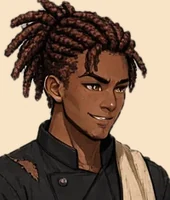
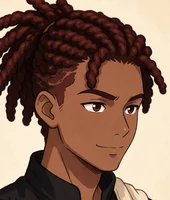
Kai's painted bust: a Sogni identity edit like the other clients
Rendered from a head-and-shoulders crop of his street art (take 3), cut by
tools/portrait_busts.py. Removes the temporary sogni-raw renders.

Claude-Session: https://claude.ai/code/session_01JTmPYAURmGMKPXmNyw76iu

diff --git a/game/tools/portrait_busts.py b/game/tools/portrait_busts.py
@@ -2,7 +2,7 @@
 
 Usage: python3 tools/portrait_busts.py RAW_DIR
 RAW_DIR holds the Sogni renders (1024x1024, parchment ground) named below.
-Kai and Seymour are cut from their existing painted street art instead.
+Sir Seymour is cut from his painted street art instead (visor down).
 Writes assets/img/portraits-painted/<who>.webp at 170x200 (the 34:40 head box).
 """
 import os, sys
@@ -20,7 +20,7 @@ CUTS = {
     'ayo':     ('raw:ayo-1', 176, 20, 240),
     'marrow':  ('raw:marrow-1', 168, 20, 240),
     'pip':     ('raw:pip-1', 205, 25, 300),
-    'kai':     ('street:kai-neutral', 175, 5, 200),
+    'kai':     ('raw:kai-3', 216, 15, 240),
     'seymour': ('street:sey-proud', 195, 60, 220),  # visor down, as always
 }
 

diff --git a/game/CREDITS.md b/game/CREDITS.md
@@ -234,7 +234,7 @@ Chapters 2 to 6 (`assets/audio/s-x-*.mp3`, registered in `js/audio-chapters.js` 
 
 Loaded from Google Fonts under the SIL Open Font License: Fredoka (Milena Brandão, Hafontia), Nunito (Vernon Adams, Jacques Le Bailly) and Patrick Hand (Patrick Wagesreiter; the Renovation's chalk slate).
 | Architect's Draft's painted Pingsby's Quarter (`assets/img/draft/quarter`): the seven clients' buildings (Mira's infirmary, Seo-yeon's gatehouse, Dutch's night office, Kai's kitchen annex, Goodwife Marrow's bell house, Pip's lost and found, Postmaster Coo's post office) in small, middle and tall sizes, the scaffolding, the delete marker, the plot ground, the river and the four landmarks (the Sorting Fountain, the Keystone Arch, the Clock Tower, the Lantern Tower) | Rendered on [Sogni](https://www.sogni.ai) on 2026-11-17 with Sogni's `sogni-agent` CLI on Ladi's computer, on Ladi's Sogni Unlimited plan (text to image with Krea 2 Turbo, `krea2_turbo_fp8_scaled`; the small and tall buildings edited from the picked middle one with Krea 2 Identity Edit, `krea2_identity_edit_v1_2`), from the prompts in project files `game-modes/architects-draft/living-world/sogni-prompts-pingsbys-quarter.md`; cut out from their white backgrounds and sized to WebP by `tools/quarter_art.py` | Generated for this game; used under Sogni's terms for generated output | Architect's Draft's Pingsby's Quarter (`js/draft-art.js`, `js/draft.js`): the map's plots, buildings, river and landmarks; pieces not yet painted keep the code drawing above |
-| The Renovation's painted client busts (`assets/img/portraits-painted`): Mira, Seo-yeon, Dutch, Goodwife Marrow, Pip, Postmaster Coo and Ayo | Rendered on [Sogni](https://www.sogni.ai) on 2026-11-17 with Sogni's `sogni-agent` CLI on Ladi's computer, on Ladi's Sogni Unlimited plan, with Krea 2 Identity Edit (`krea2_identity_edit_v1_2`), each from that character's existing portrait as the reference; Kai's and Sir Seymour's busts are cut from their painted street art (`assets/img/reno/street/kai-neutral`, `sey-proud`) above; all cropped and sized to WebP by `tools/portrait_busts.py` | Generated for this game; used under Sogni's terms for generated output | The Renovation (`js/mode-reno.js`): the faces on the night's board, the job cards and beside every spoken line |
+| The Renovation's painted client busts (`assets/img/portraits-painted`): Mira, Seo-yeon, Dutch, Kai, Goodwife Marrow, Pip, Postmaster Coo and Ayo | Rendered on [Sogni](https://www.sogni.ai) on 2026-11-17 with Sogni's `sogni-agent` CLI on Ladi's computer, on Ladi's Sogni Unlimited plan, with Krea 2 Identity Edit (`krea2_identity_edit_v1_2`), each from that character's existing portrait as the reference (Kai's from his painted street art, `assets/img/reno/street/kai-neutral`); Sir Seymour's bust is cut from his painted street art (`assets/img/reno/street/sey-proud`) above; all cropped and sized to WebP by `tools/portrait_busts.py` | Generated for this game; used under Sogni's terms for generated output | The Renovation (`js/mode-reno.js`): the faces on the night's board, the job cards and beside every spoken line |
 
 ## Learning sources
 
